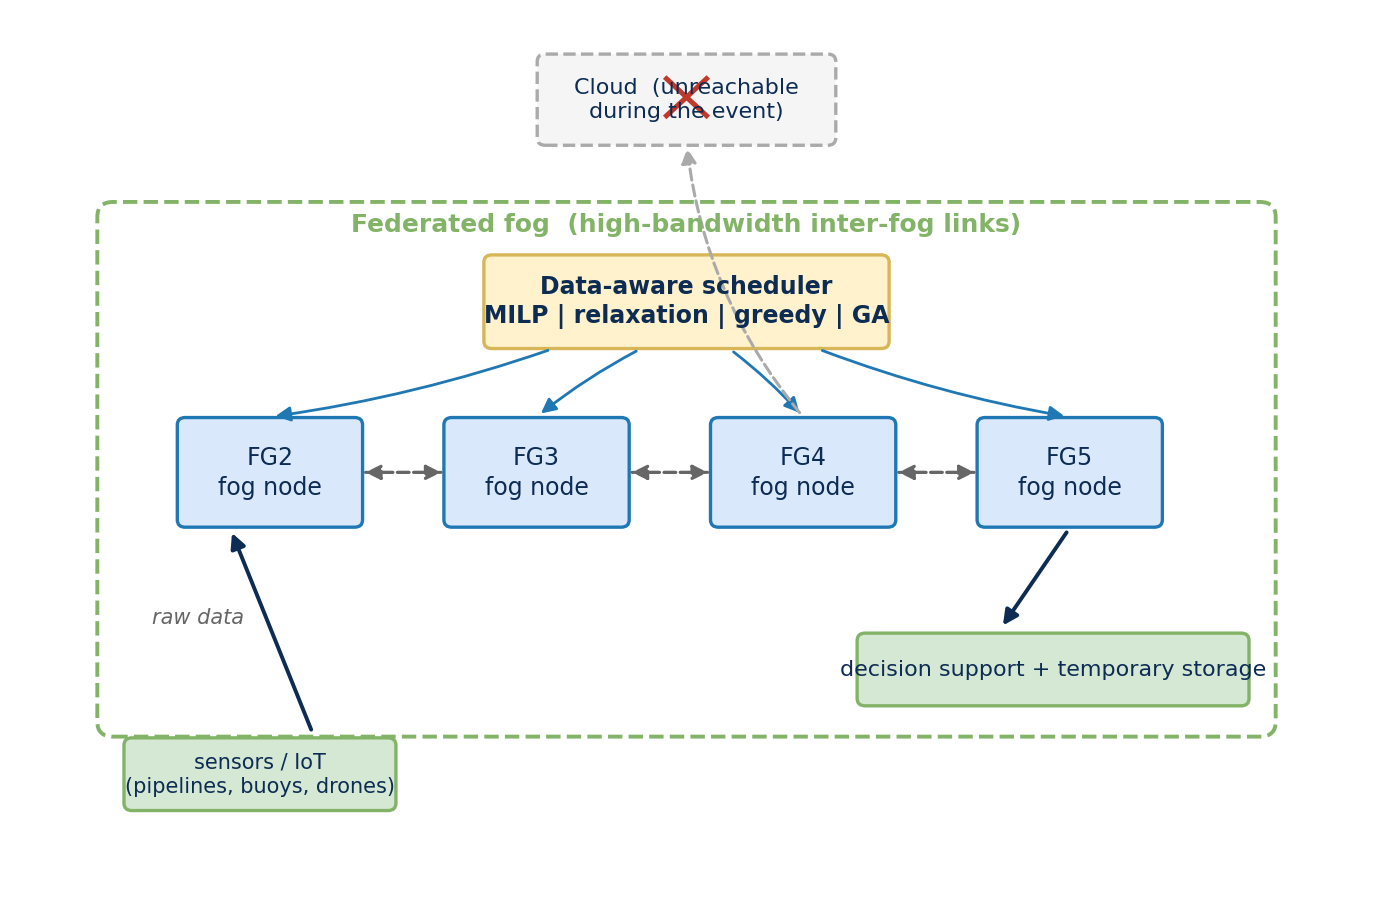
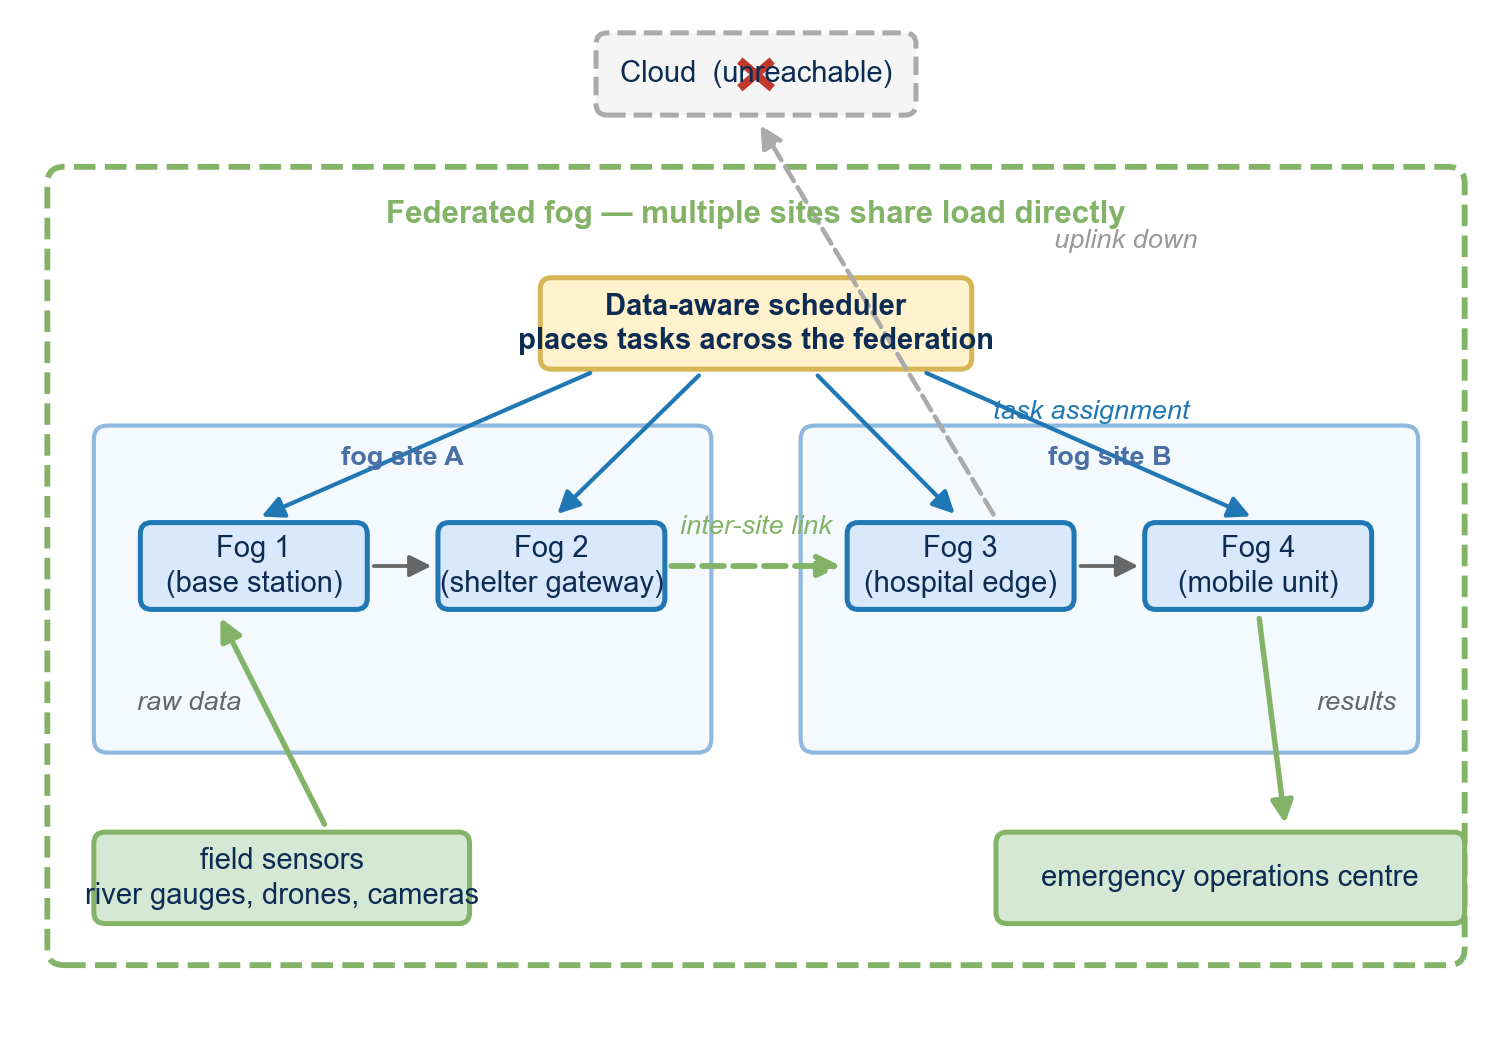
Redraw conceptual figures in a clean draw.io-style layout
The architecture figure now shows the federation as two cooperating fog
sites with a shared scheduler, field sensors, and an operations centre;
the workflow figure is a realistic disaster-response DAG with branching
and merging instead of a linear chain. Both use plain labels and Arial
text so they read clearly at IEEE column width.

Changed region(s): [[0.0306, 0.031, 0.9789, 0.9313]]

diff --git a/code/make_figures.py b/code/make_figures.py
@@ -1,6 +1,5 @@
 """Generate the two conceptual figures for the paper in a clean
-draw.io-like style. Figures are drawn at ~print size (single IEEE column,
-~3.5 in wide) so the text stays readable at 100% scale.
+draw.io-like style: Arial text, rounded boxes, lots of whitespace.
 
 Outputs into ../Figures/ relative to this script.
 Run:  python3 code/make_figures.py
@@ -8,6 +7,7 @@ Run:  python3 code/make_figures.py
 
 import matplotlib
 matplotlib.use("Agg")
+matplotlib.rcParams["font.family"] = "Arial"
 import matplotlib.pyplot as plt
 from matplotlib.patches import FancyBboxPatch, FancyArrowPatch
 import os
@@ -25,16 +25,15 @@ YELLOW_EDGE = "#d6b656"
 RED = "#c0392b"
 GREY = "#666666"
 
-FS = 10          # main box text
-FS_SM = 8        # edge / sub labels
-FS_TITLE = 10.5  # section labels
+FS = 7.0         # box text
+FS_SM = 6.5      # edge / side labels
 
 
 def box(ax, x, y, w, h, text, fc=LT_BLUE, ec=BLUE, fs=FS, dashed=False,
         bold=False):
     b = FancyBboxPatch((x, y), w, h,
-                       boxstyle="round,pad=0.02,rounding_size=0.06",
-                       linewidth=1.3, edgecolor=ec, facecolor=fc,
+                       boxstyle="round,pad=0.02,rounding_size=0.12",
+                       linewidth=1.2, edgecolor=ec, facecolor=fc,
                        linestyle="--" if dashed else "-")
     ax.add_patch(b)
     ax.text(x + w / 2, y + h / 2, text, ha="center", va="center",
@@ -43,9 +42,9 @@ def box(ax, x, y, w, h, text, fc=LT_BLUE, ec=BLUE, fs=FS, dashed=False,
     return (x + w / 2, y + h / 2)
 
 
-def arrow(ax, p1, p2, dashed=False, color=DARK, lw=1.4, label=None,
-          fs=FS_SM, rad=0.0, label_dx=0.0, label_dy=0.08):
-    a = FancyArrowPatch(p1, p2, arrowstyle="-|>", mutation_scale=12,
+def arrow(ax, p1, p2, dashed=False, color=DARK, lw=1.3, label=None,
+          fs=FS_SM, rad=0.0, label_dx=0.0, label_dy=0.12):
+    a = FancyArrowPatch(p1, p2, arrowstyle="-|>", mutation_scale=11,
                         linewidth=lw, color=color,
                         linestyle="--" if dashed else "-",
                         connectionstyle=f"arc3,rad={rad}")
@@ -58,73 +57,89 @@ def arrow(ax, p1, p2, dashed=False, color=DARK, lw=1.4, label=None,
 
 
 def figure_architecture():
-    # canvas 10 x 7 -> figsize keeps text ~9pt at column width
-    fig, ax = plt.subplots(figsize=(4.4, 3.1), dpi=300)
-    ax.set_xlim(0, 10); ax.set_ylim(0, 7); ax.axis("off")
+    fig, ax = plt.subplots(figsize=(6.4, 4.4), dpi=300)
+    ax.set_xlim(0, 16); ax.set_ylim(0, 11); ax.axis("off")
 
-    # unreachable cloud
-    box(ax, 3.9, 6.05, 2.3, 0.72, "Cloud  (unreachable)",
-        fc="#f5f5f5", ec="#aaaaaa", fs=FS_SM, dashed=True)
-    ax.plot([4.95, 5.20], [6.28, 6.52], color=RED, lw=1.8)
-    ax.plot([5.20, 4.95], [6.28, 6.52], color=RED, lw=1.8)
+    # unreachable cloud (crossed out, dashed)
+    box(ax, 6.3, 9.9, 3.4, 0.85, "Cloud  (unreachable)",
+        fc="#f5f5f5", ec="#aaaaaa", fs=FS, dashed=True)
+    cx = (8.0, 10.32)
+    ax.plot([cx[0] - 0.14, cx[0] + 0.14], [cx[1] - 0.12, cx[1] + 0.12],
+            color=RED, lw=2.0)
+    ax.plot([cx[0] + 0.14, cx[0] - 0.14], [cx[1] - 0.12, cx[1] + 0.12],
+            color=RED, lw=2.0)
 
     # federation boundary
-    fed = FancyBboxPatch((0.55, 1.15), 8.9, 4.4,
-                         boxstyle="round,pad=0.02,rounding_size=0.12",
+    fed = FancyBboxPatch((0.4, 0.7), 15.2, 8.6,
+                         boxstyle="round,pad=0.02,rounding_size=0.18",
                          linewidth=1.4, edgecolor=GREEN_EDGE,
                          facecolor="none", linestyle="--")
     ax.add_patch(fed)
-    ax.text(5.0, 5.30, "Federated fog — high-bandwidth inter-fog links",
-            ha="center", fontsize=FS_TITLE, color=GREEN_EDGE,
+    ax.text(8.0, 8.72, "Federated fog — multiple sites share load directly",
+            ha="center", fontsize=FS + 0.5, color=GREEN_EDGE,
             fontweight="bold")
 
     # scheduler
-    sch = box(ax, 3.5, 4.30, 3.0, 0.78,
-              "Data-aware scheduler\nMILP · relaxation · greedy · GA",
-              fc=YELLOW, ec=YELLOW_EDGE, fs=FS_SM + 0.5, bold=True)
+    sch = box(ax, 5.7, 7.15, 4.6, 0.95,
+              "Data-aware scheduler\nplaces tasks across the federation",
+              fc=YELLOW, ec=YELLOW_EDGE, fs=FS, bold=True)
 
-    # fog nodes
+    # two fog sites (different owners), each with two nodes
+    site_a = FancyBboxPatch((0.9, 3.0), 6.6, 3.5,
+                            boxstyle="round,pad=0.02,rounding_size=0.15",
+                            linewidth=1.0, edgecolor="#8fb8de",
+                            facecolor="#f4f9fd", linestyle="-")
+    site_b = FancyBboxPatch((8.5, 3.0), 6.6, 3.5,
+                            boxstyle="round,pad=0.02,rounding_size=0.15",
+                            linewidth=1.0, edgecolor="#8fb8de",
+                            facecolor="#f4f9fd", linestyle="-")
+    ax.add_patch(site_a); ax.add_patch(site_b)
+    ax.text(4.2, 6.10, "fog site A", ha="center", fontsize=FS_SM,
+            color="#4a6fa5", fontweight="bold")
+    ax.text(11.8, 6.10, "fog site B", ha="center", fontsize=FS_SM,
+            color="#4a6fa5", fontweight="bold")
+
     fgs = {}
-    positions = [(1.0, 2.85), (3.2, 2.85), (5.4, 2.85), (7.6, 2.85)]
-    for i, (x, y) in enumerate(positions, start=2):
-        fgs[i] = box(ax, x, y, 1.5, 0.9, f"FG{i}\nfog node", fs=FS_SM + 0.5)
+    fgs[0] = box(ax, 1.4, 4.55, 2.4, 0.9, "Fog 1\n(base station)", fs=FS)
+    fgs[1] = box(ax, 4.6, 4.55, 2.4, 0.9, "Fog 2\n(shelter gateway)", fs=FS)
+    fgs[2] = box(ax, 9.0, 4.55, 2.4, 0.9, "Fog 3\n(hospital edge)", fs=FS)
+    fgs[3] = box(ax, 12.2, 4.55, 2.4, 0.9, "Fog 4\n(mobile unit)", fs=FS)
 
-    # inter-fog links (dashed, bidirectional)
-    keys = sorted(fgs)
-    for a, b in zip(keys, keys[1:]):
-        arrow(ax, (fgs[a][0] + 0.75, fgs[a][1] + 0.06),
-              (fgs[b][0] - 0.75, fgs[b][1] + 0.06),
-              dashed=True, color=GREY, lw=1.0)
-        arrow(ax, (fgs[b][0] - 0.75, fgs[b][1] - 0.06),
-              (fgs[a][0] + 0.75, fgs[a][1] - 0.06),
-              dashed=True, color=GREY, lw=1.0)
-    ax.text(4.3, 3.95, "$B_{ba}$", fontsize=FS_SM, color=GREY,
+    # intra-site links (solid grey) and one cross-site federation link (dashed)
+    for a, b in [(0, 1), (2, 3)]:
+        arrow(ax, (fgs[a][0] + 1.2, fgs[a][1]), (fgs[b][0] - 1.2, fgs[b][1]),
+              color=GREY, lw=0.9)
+    arrow(ax, (fgs[1][0] + 1.2, fgs[1][1]), (fgs[2][0] - 1.2, fgs[2][1]),
+          dashed=True, color=GREEN_EDGE, lw=1.4)
+    ax.text(8.0, 5.35, "inter-site link", fontsize=FS_SM, color=GREEN_EDGE,
             fontstyle="italic", ha="center")
 
-    # sensors feeding FG2
-    s1 = box(ax, 0.75, 1.35, 2.1, 0.62, "sensors / IoT\npipelines, buoys, drones",
-             fc=GREEN, ec=GREEN_EDGE, fs=FS_SM)
-    arrow(ax, (s1[0] + 0.3, s1[1] + 0.35), (fgs[2][0] - 0.2, fgs[2][1] - 0.45),
-          color=GREEN_EDGE, label="raw data", label_dx=-0.6)
+    # scheduler -> fog nodes (assignments)
+    for i in range(4):
+        arrow(ax, (sch[0] - 1.7 + i * 1.15, sch[1] - 0.50),
+              (fgs[i][0], fgs[i][1] + 0.50), color=BLUE, lw=1.0)
+    ax.text(11.6, 6.6, "task assignment", fontsize=FS_SM, color=BLUE,
+            fontstyle="italic", ha="center")
 
-    # scheduler -> fog nodes
-    for i in keys:
-        arrow(ax, (sch[0] - 1.0 + (i - 2) * 0.67, sch[1] - 0.40),
-              (fgs[i][0], fgs[i][1] + 0.47), color=BLUE, lw=1.0,
-              rad=0.05 if i % 2 else -0.05)
-    ax.text(6.6, 4.0, "$e_{ia}, l_{ia}$", fontsize=FS_SM, color=BLUE,
-            fontstyle="italic")
+    # field sensors feeding site A
+    s1 = box(ax, 0.9, 1.15, 4.0, 0.95,
+             "field sensors\nriver gauges, drones, cameras",
+             fc=GREEN, ec=GREEN_EDGE, fs=FS)
+    arrow(ax, (s1[0] + 0.5, s1[1] + 0.5), (fgs[0][0] - 0.4, fgs[0][1] - 0.48),
+          color=GREEN_EDGE, label="raw data", label_dx=-0.9)
 
-    # database / decision support
-    db = box(ax, 6.2, 1.40, 2.9, 0.62,
-             "decision support + temporary storage",
-             fc=GREEN, ec=GREEN_EDGE, fs=FS_SM)
-    arrow(ax, (fgs[5][0], fgs[5][1] - 0.47), (db[0] - 0.4, db[1] + 0.35),
-          color=GREEN_EDGE)
+    # results flow to the operations centre
+    oc = box(ax, 10.6, 1.15, 5.0, 0.95,
+             "emergency operations centre",
+             fc=GREEN, ec=GREEN_EDGE, fs=FS)
+    arrow(ax, (fgs[3][0], fgs[3][1] - 0.48), (oc[0] + 0.6, oc[1] + 0.5),
+          color=GREEN_EDGE, label="results", label_dx=0.9)
 
-    # dead cloud uplink
-    arrow(ax, (fgs[4][0], fgs[4][1] + 0.47), (5.05, 6.03), dashed=True,
-          color="#aaaaaa", lw=1.1, rad=-0.15)
+    # dead uplink to the cloud
+    arrow(ax, (fgs[2][0] + 0.4, fgs[2][1] + 0.48), (8.0, 9.85), dashed=True,
+          color="#aaaaaa", lw=1.1)
+    ax.text(11.2, 8.45, "uplink down", fontsize=FS_SM, color="#999999",
+            fontstyle="italic", ha="left")
 
     fig.savefig(os.path.join(FIG, "federated-fog-architecture.png"),
                 bbox_inches="tight", facecolor="white", pad_inches=0.04)
@@ -132,49 +147,54 @@ def figure_architecture():
 
 
 def figure_dag():
-    fig, ax = plt.subplots(figsize=(4.4, 2.9), dpi=300)
-    ax.set_xlim(0, 10); ax.set_ylim(0, 6.6); ax.axis("off")
+    fig, ax = plt.subplots(figsize=(6.4, 4.6), dpi=300)
+    ax.set_xlim(0, 16); ax.set_ylim(0, 12); ax.axis("off")
 
-    # tasks (right side)
+    # workflow DAG, top to bottom: two data sources join, work splits into
+    # a forecast branch and a planning branch, then merges.
+    # plain-language labels -- the formal D_ji / e_ia notation stays in the
+    # paper text and caption
     T = {}
-    T[1] = box(ax, 4.7, 5.05, 2.4, 0.72, "T1  sensor data\ncollection", fs=FS_SM + 0.5)
-    T[2] = box(ax, 4.7, 3.55, 2.4, 0.72, "T2  preprocessing +\nfeature extraction", fs=FS_SM + 0.5)
-    T[3] = box(ax, 7.7, 4.30, 2.2, 0.72, "T3  disaster simulation\n(spill trajectory)", fs=FS_SM + 0.5)
-    T[6] = box(ax, 4.7, 2.05, 2.4, 0.72, "T6  emergency response\ncoordination", fs=FS_SM + 0.5)
-    T[5] = box(ax, 7.7, 2.05, 2.2, 0.72, "T5  decision support\n+ planning", fs=FS_SM + 0.5)
-    T[4] = box(ax, 7.7, 0.55, 2.2, 0.72, "T4  emergency alerts", fs=FS_SM + 0.5,
+    T[1] = box(ax, 4.9, 10.9, 3.4, 0.85, "T1  collect\nsensor data", fs=FS)
+    T[2] = box(ax, 10.0, 10.9, 3.4, 0.85, "T2  get aerial &\nsatellite photos", fs=FS)
+    T[3] = box(ax, 4.9, 8.55, 3.4, 0.85, "T3  combine &\nclean data", fs=FS)
+    T[4] = box(ax, 10.0, 8.55, 3.4, 0.85, "T4  assess\ndamage", fs=FS)
+    T[5] = box(ax, 4.9, 6.20, 3.4, 0.85, "T5  forecast\nimpact", fs=FS)
+    T[6] = box(ax, 10.0, 6.20, 3.4, 0.85, "T6  plan evacuation\n& supplies", fs=FS)
+    T[7] = box(ax, 7.45, 3.85, 3.4, 0.85, "T7  coordinate\nresponse", fs=FS)
+    T[8] = box(ax, 7.45, 1.55, 3.4, 0.85, "T8  send emergency\nalerts", fs=FS,
                fc=YELLOW, ec=YELLOW_EDGE, bold=True)
 
-    arrow(ax, (T[1][0] - 0.5, T[1][1] - 0.36), (T[2][0] - 0.5, T[2][1] + 0.36),
-          label="$D_{12}$", label_dx=-0.3)
-    arrow(ax, (T[2][0] + 1.2, T[2][1] + 0.2), (T[3][0] - 0.7, T[3][1] - 0.2),
-          label="$D_{23}$", label_dy=0.22, label_dx=-0.15)
-    arrow(ax, (T[2][0] + 0.5, T[2][1] - 0.36), (T[6][0] + 0.3, T[6][1] + 0.36),
-          label="$D_{26}$", label_dx=-0.35)
-    arrow(ax, (T[1][0] + 1.0, T[1][1] - 0.36), (T[6][0] + 0.8, T[6][1] + 0.36),
-          label="$D_{16}$", label_dx=0.5, rad=-0.3)
-    arrow(ax, (T[3][0], T[3][1] - 0.36), (T[5][0], T[5][1] + 0.36),
-          label="$D_{35}$", label_dx=-0.35)
-    arrow(ax, (T[6][0] + 1.2, T[6][1]), (T[5][0] - 1.1, T[5][1]),
-          label="$D_{65}$", label_dy=0.22)
-    arrow(ax, (T[5][0], T[5][1] - 0.36), (T[4][0], T[4][1] + 0.36),
-          label="$D_{54}$", label_dx=-0.35)
+    arrow(ax, (T[1][0] - 0.2, T[1][1] - 0.43), (T[3][0] - 0.2, T[3][1] + 0.43))
+    arrow(ax, (T[2][0] - 0.6, T[2][1] - 0.43), (T[3][0] + 0.8, T[3][1] + 0.43))
+    arrow(ax, (T[2][0], T[2][1] - 0.43), (T[4][0], T[4][1] + 0.43))
+    arrow(ax, (T[3][0], T[3][1] - 0.43), (T[5][0], T[5][1] + 0.43))
+    arrow(ax, (T[3][0] + 0.9, T[3][1] - 0.43), (T[6][0] - 0.6, T[6][1] + 0.43))
+    arrow(ax, (T[4][0], T[4][1] - 0.43), (T[6][0] + 0.2, T[6][1] + 0.43))
+    # cross edges between the two branches
+    arrow(ax, (T[4][0] - 1.2, T[4][1] - 0.43), (T[5][0] + 1.0, T[5][1] + 0.43))
+    arrow(ax, (T[5][0] + 1.7, T[5][1] + 0.15), (T[6][0] - 1.7, T[6][1] + 0.15))
+    arrow(ax, (T[5][0] + 0.7, T[5][1] - 0.43), (T[7][0] - 0.7, T[7][1] + 0.43))
+    arrow(ax, (T[6][0] - 0.7, T[6][1] - 0.43), (T[7][0] + 0.7, T[7][1] + 0.43))
+    arrow(ax, (T[7][0], T[7][1] - 0.43), (T[8][0], T[8][1] + 0.43))
+    ax.text(14.0, 9.9, "arrows carry data\nbetween tasks",
+            fontsize=FS_SM, color=GREY, fontstyle="italic", ha="right")
 
-    # fog nodes (left)
+    # fog nodes (left column)
     fgs = {}
-    for i, y in enumerate([5.1, 3.8, 2.5, 1.2], start=2):
-        fgs[i] = box(ax, 0.55, y, 1.25, 0.6, f"FG{i}", fs=FS_SM + 0.5)
-    for a, b in zip([2, 3, 4], [3, 4, 5]):
-        arrow(ax, (fgs[a][0], fgs[a][1] - 0.3), (fgs[b][0], fgs[b][1] + 0.3),
+    for i, y in enumerate([9.7, 7.5, 5.3, 3.1]):
+        fgs[i] = box(ax, 0.7, y, 1.6, 0.75, f"Fog {i+1}", fs=FS)
+    for a, b in zip([0, 1, 2], [1, 2, 3]):
+        arrow(ax, (fgs[a][0], fgs[a][1] - 0.38), (fgs[b][0], fgs[b][1] + 0.38),
               dashed=True, color=GREY, lw=0.9)
-    ax.text(1.18, 6.15, "fog nodes\n(links $B_{ba}$)", fontsize=FS_SM,
+    ax.text(1.5, 11.3, "fog nodes\n(local network)", fontsize=FS_SM,
             ha="center", color=GREY)
 
-    # example assignments (dashed blue)
-    for src, dst in [(T[1], fgs[2]), (T[2], fgs[3]), (T[6], fgs[5])]:
-        arrow(ax, (src[0] - 1.2, src[1]), (dst[0] + 0.63, dst[1]),
+    # example assignments (dashed blue, task -> node)
+    for src, dst in [(T[1], fgs[0]), (T[3], fgs[1]), (T[7], fgs[2])]:
+        arrow(ax, (src[0] - 1.7, src[1]), (dst[0] + 0.8, dst[1]),
               dashed=True, color=BLUE, lw=1.0)
-    ax.text(2.9, 0.30, "dashed blue: assignment $e_{ia}$", fontsize=FS_SM,
+    ax.text(1.5, 0.7, "dashed blue =\nwhere tasks run", fontsize=FS_SM,
             color=BLUE, ha="center", fontstyle="italic")
 
     fig.savefig(os.path.join(FIG, "disaster-response-dag.png"),
